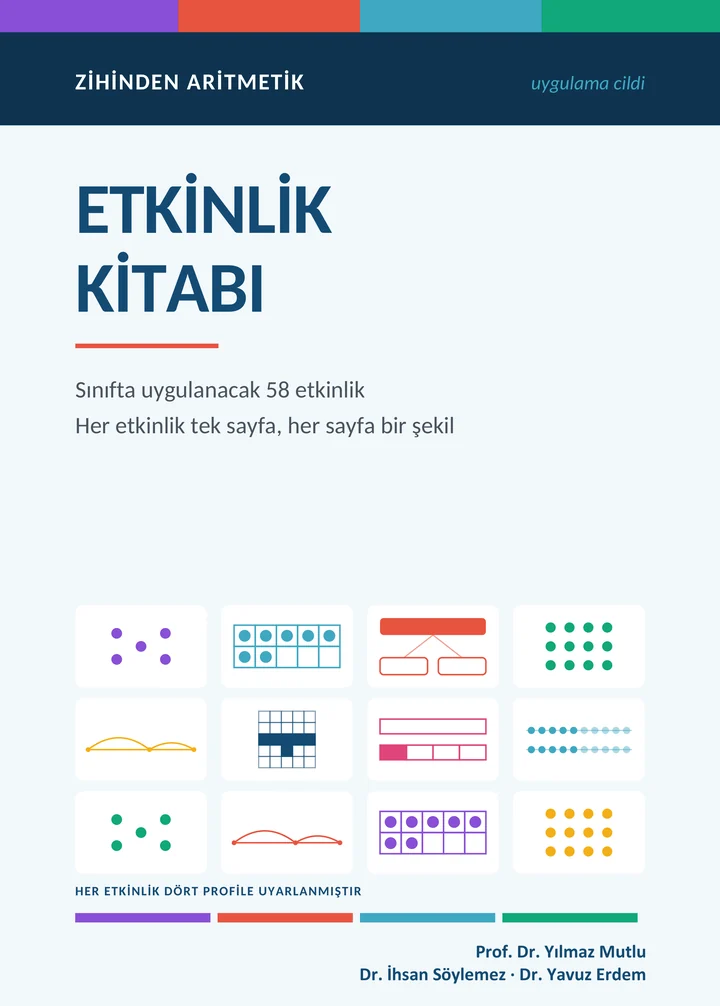
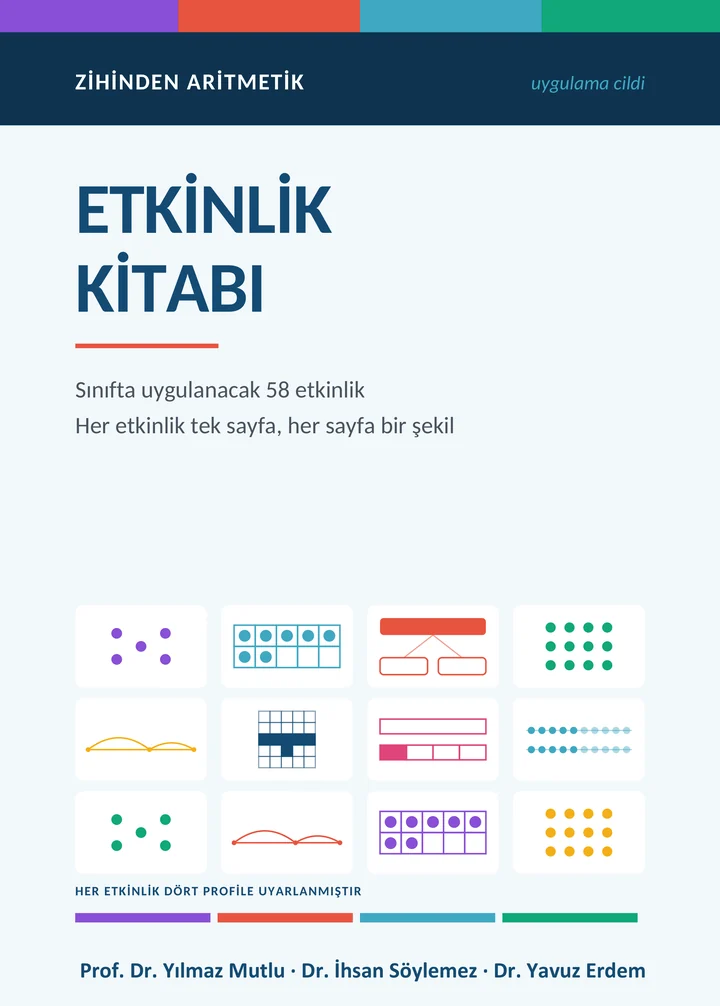
style(kapak): on kapakta uc yazar tek satirda
Iki satir yerine tek satir istendi. Uc ad ozgun 67,3 pt'de 1705 pt tutuyor,
oysa sol hizayla sag kenar arasinda 1408 pt var; bu yuzden punto ene gore
hesaplaniyor (55 pt) ve satir kapagin sol hizasina degmeden duruyor.

Tek satir olunca taban cizgisi ozgunuyle ayni birakilabildi: alt bosluk —
baskinin kesim payi — degismiyor (84 pt / 80 pt ozgun; punto kucuk oldugundan
alt uzanti da kisaldi).

Arka kapak iki satir kaliyor: orada ISBN barkod kutusu var, tek satir onun
altina giriyordu. Sirt yine soyadlarla.

Uygulamadaki kapak gorselleri de yenilendi.

Changed region(s): [[0.0917, 0.9245, 0.9167, 0.9861]]

diff --git a/ZihindenAritmetik/scripts/kapak_yazar.py b/ZihindenAritmetik/scripts/kapak_yazar.py
@@ -10,13 +10,13 @@ olduğundan hizalama kaymaz.
 
 Yerleşim her konuma göre ayrı hesaplanır:
 
-  ön kapak   67,3 pt tek satır ->  46 pt iki satır, sağa yaslı
+  ön kapak   67,3 pt tek satır ->  ene sığan puntoda tek satır, sağa yaslı
   arka kapak 44,3 pt tek satır ->  40 pt iki satır, sola yaslı
   sırt       44,3 pt dikey     ->  yalnızca soyadlar (üç tam ad sığmıyor:
                                    ~1100 pt gerekiyor, 505 pt yer var)
 
-Ön kapakta blok aşağıdan hizalanır: alt boşluk özgünüyle birebir aynı kalır,
-çünkü orası baskının kesim payıdır.
+Ön kapakta taban çizgisi ve sağ kenar korunur, punto ene göre küçültülür;
+böylece alt boşluk — baskının kesim payı — özgünüyle birebir aynı kalır.
 
 Kullanım:
     python scripts/kapak_yazar.py            # önizleme, dosyaya yazmaz
@@ -36,6 +36,14 @@ BOLD = Path('C:/Windows/Fonts/calibrib.ttf')
 REG = Path('C:/Windows/Fonts/calibri.ttf')
 
 ESKI = 'Prof. Dr. Yılmaz Mutlu'
+
+SOL_KENAR = 186.0   # kapağın kendi sol hizası
+GUVENLIK = 10.0     # metnin sol hizaya değmemesi için pay
+
+# Calibri/Carlito'nun hhea ölçüleri (em oranı). Taban çizgisini eski yazının
+# üst kenarından hesaplamak için gerekir.
+YUKSELTI = 0.952
+CIKINTI = 0.269
 
 
 def kapak_klasoru() -> Path:
@@ -105,31 +113,31 @@ def islem_planla(s, yon):
         }
 
     if kalin:
-        # Ön kapak: iki satır, sağ kenar korunur.
+        # Ön kapak: üç ad TEK satırda, sağa yaslı.
         #
-        # Blok yukarıdan değil AŞAĞIDAN hizalanır: son satırın alt kenarı eski
-        # tek satırın alt kenarıyla çakışır, böylece kapağın alt boşluğu (ve
-        # baskıdaki kesim payı) aynen korunur. 52 pt iki satır bu boşluğa
-        # sığmıyordu — üstteki renk şeridiyle alt kenar arasında 111 pt yer
-        # var, 46 pt/56 pt satır aralığı ile blok 101 pt tutuyor.
-        boyut = 46.0
-        satir_aralik = 56.0
-        cikinti = boyut * 0.25   # alt uzantı (descender)
-        yukselti = boyut * 0.75  # üst uzantı (ascender)
-        metinler = [ADLAR[0], AYRAC.join(ADLAR[1:])]
-        son_taban = y1 - cikinti
-        ilk_taban = son_taban - satir_aralik * (len(metinler) - 1)
-        satirlar = []
-        for i, m in enumerate(metinler):
-            g = f.text_length(m, boyut)
-            satirlar.append((fitz.Point(x1 - g, ilk_taban + i * satir_aralik), m))
+        # Punto ene göre hesaplanır: üç ad özgün 67,3 pt'de 1705 pt tutuyor,
+        # oysa sol kenar (186) ile sağ kenar arasında 1408 pt var. Metin sol
+        # kenar payına dokunmayacak biçimde küçültülür; böylece kapağın kendi
+        # hizası bozulmaz.
+        #
+        # Taban çizgisi özgünüyle aynı bırakılır (tek satır olduğu için
+        # bırakılabiliyor), dolayısıyla alt boşluk — yani baskının kesim payı —
+        # değişmez.
+        metin = AYRAC.join(ADLAR)
+        kullanilabilir = (x1 - SOL_KENAR) - GUVENLIK
+        boyut = s['size']
+        if f.text_length(metin, boyut) > kullanilabilir:
+            boyut = boyut * kullanilabilir / f.text_length(metin, boyut)
+            boyut = round(boyut, 1)
+        taban = y0 + YUKSELTI * s['size']
+        g = f.text_length(metin, boyut)
         return {
             'sil': fitz.Rect(x0 - 6, y0 - 6, x1 + 6, y1 + 6),
-            'satirlar': satirlar,
+            'satirlar': [(fitz.Point(x1 - g, taban), metin)],
             'boyut': boyut,
             'kalin': kalin,
             'dikey': False,
-            'ust_sinir': ilk_taban - yukselti,
+            'ust_sinir': taban - YUKSELTI * boyut,
         }
 
     # Arka kapak: iki satır, sol kenar korunur.
